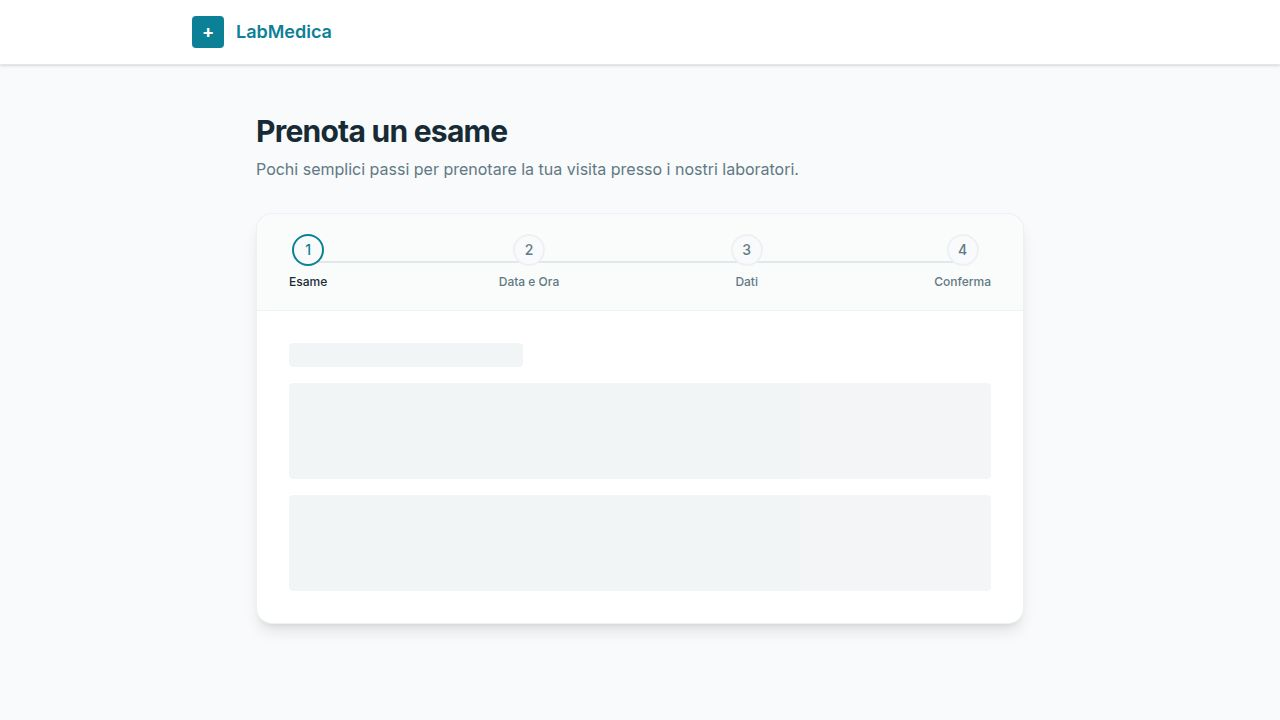
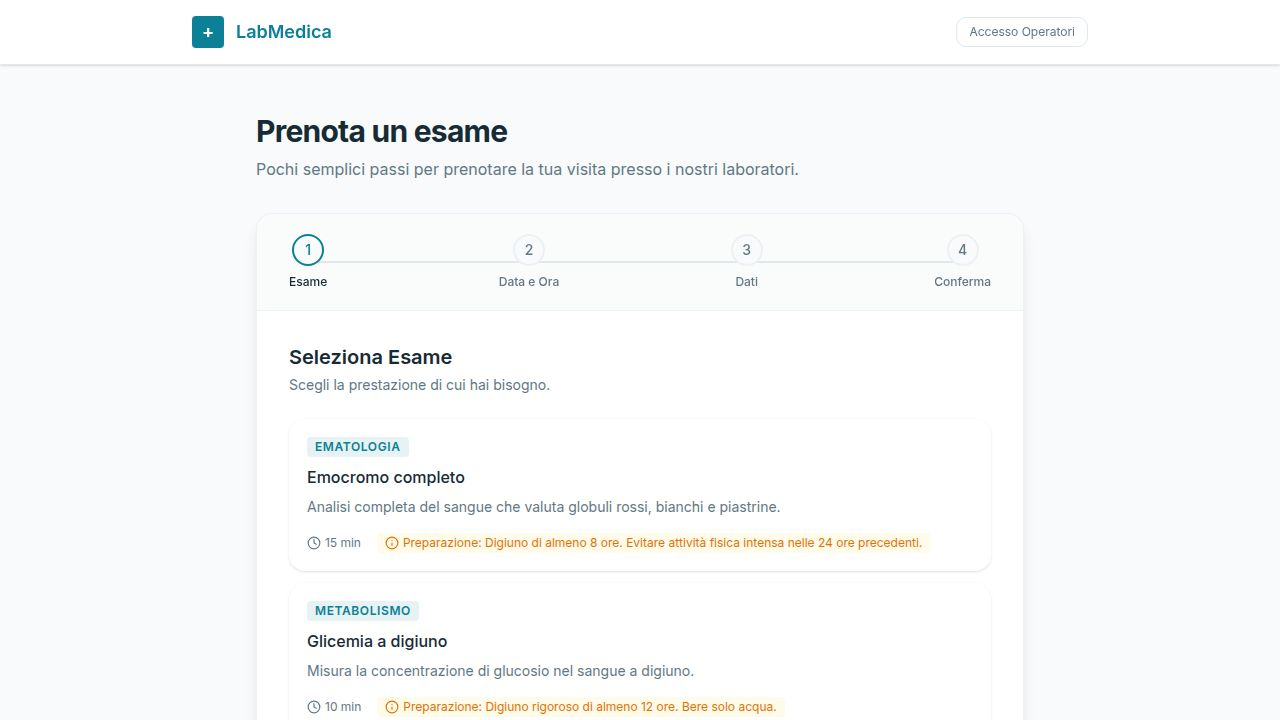
Add operator login page with role-based access control
Implements a client-side authentication flow for operator access to the admin panel, featuring a dropdown for user selection (segreteria/laboratorio) and password validation against hardcoded credentials. The admin dashboard header now dynamically displays the operator role and includes a logout button.

Replit-Commit-Author: Agent
Replit-Commit-Session-Id: 508e317d-6468-4f76-97bd-3dec9ae1c1b4
Replit-Commit-Checkpoint-Type: full_checkpoint
Replit-Commit-Event-Id: cde1e609-57c5-40cd-b354-21d2aee470ae
Replit-Commit-Screenshot-Url: https://storage.googleapis.com/screenshot-production-us-central1/43510413-4f69-4494-818c-d73aa1a7d761/508e317d-6468-4f76-97bd-3dec9ae1c1b4/dBiSgql
Replit-Helium-Checkpoint-Created: true

diff --git a/artifacts/lab-booking/src/pages/Login.tsx b/artifacts/lab-booking/src/pages/Login.tsx
@@ -1,0 +1,125 @@
+import React from "react";
+import { Button } from "@/components/ui/button";
+import { Input } from "@/components/ui/input";
+import { Label } from "@/components/ui/label";
+import {
+  Select,
+  SelectContent,
+  SelectItem,
+  SelectTrigger,
+  SelectValue,
+} from "@/components/ui/select";
+import { Card } from "@/components/ui/card";
+import { Lock, Eye, EyeOff } from "lucide-react";
+
+const CREDENTIALS: Record<string, string> = {
+  segreteria: "Corona!20",
+  laboratorio: "Corona!26",
+};
+
+interface LoginProps {
+  onSuccess: (role: string) => void;
+}
+
+export function Login({ onSuccess }: LoginProps) {
+  const [username, setUsername] = React.useState<string>("");
+  const [password, setPassword] = React.useState("");
+  const [showPassword, setShowPassword] = React.useState(false);
+  const [error, setError] = React.useState("");
+  const [loading, setLoading] = React.useState(false);
+
+  const handleSubmit = (e: React.FormEvent) => {
+    e.preventDefault();
+    setError("");
+
+    if (!username) {
+      setError("Seleziona un utente.");
+      return;
+    }
+    if (!password) {
+      setError("Inserisci la password.");
+      return;
+    }
+
+    setLoading(true);
+    setTimeout(() => {
+      if (CREDENTIALS[username] === password) {
+        sessionStorage.setItem("operator_role", username);
+        onSuccess(username);
+      } else {
+        setError("Password non corretta. Riprova.");
+        setPassword("");
+      }
+      setLoading(false);
+    }, 400);
+  };
+
+  return (
+    <div className="min-h-screen bg-background flex flex-col items-center justify-center px-4">
+      <div className="w-full max-w-sm">
+        <div className="text-center mb-8">
+          <div className="inline-flex h-12 w-12 items-center justify-center rounded-xl bg-primary mb-4">
+            <span className="text-white font-bold text-2xl leading-none">+</span>
+          </div>
+          <h1 className="text-xl font-bold text-foreground">LabMedica</h1>
+          <p className="text-sm text-muted-foreground mt-1">Accesso Operatori</p>
+        </div>
+
+        <Card className="p-6 shadow-lg border-border/60">
+          <form onSubmit={handleSubmit} className="space-y-4">
+            <div className="space-y-1.5">
+              <Label htmlFor="username">Utente</Label>
+              <Select value={username} onValueChange={(v) => { setUsername(v); setError(""); }}>
+                <SelectTrigger id="username" className="w-full">
+                  <SelectValue placeholder="Seleziona utente..." />
+                </SelectTrigger>
+                <SelectContent>
+                  <SelectItem value="segreteria">Segreteria</SelectItem>
+                  <SelectItem value="laboratorio">Laboratorio</SelectItem>
+                </SelectContent>
+              </Select>
+            </div>
+
+            <div className="space-y-1.5">
+              <Label htmlFor="password">Password</Label>
+              <div className="relative">
+                <Input
+                  id="password"
+                  type={showPassword ? "text" : "password"}
+                  value={password}
+                  onChange={(e) => { setPassword(e.target.value); setError(""); }}
+                  placeholder="••••••••"
+                  className={`pr-10 ${error ? "border-destructive focus-visible:ring-destructive" : ""}`}
+                  autoComplete="current-password"
+                />
+                <button
+                  type="button"
+                  onClick={() => setShowPassword((v) => !v)}
+                  className="absolute right-3 top-1/2 -translate-y-1/2 text-muted-foreground hover:text-foreground transition-colors"
+                  tabIndex={-1}
+                >
+                  {showPassword ? <EyeOff className="h-4 w-4" /> : <Eye className="h-4 w-4" />}
+                </button>
+              </div>
+            </div>
+
+            {error && (
+              <p className="text-sm text-destructive">{error}</p>
+            )}
+
+            <Button type="submit" className="w-full gap-2" disabled={loading}>
+              <Lock className="h-4 w-4" />
+              {loading ? "Verifica..." : "Accedi"}
+            </Button>
+          </form>
+        </Card>
+
+        <p className="text-center mt-6">
+          <a href="/" className="text-xs text-muted-foreground hover:text-primary transition-colors">
+            Torna al portale pazienti
+          </a>
+        </p>
+      </div>
+    </div>
+  );
+}

diff --git a/artifacts/lab-booking/src/pages/Admin.tsx b/artifacts/lab-booking/src/pages/Admin.tsx
@@ -6,7 +6,8 @@ import { useLocation } from "wouter";
 import { Badge } from "@/components/ui/badge";
 import { Button } from "@/components/ui/button";
 import { Skeleton } from "@/components/ui/skeleton";
-import { ArrowLeft, RefreshCw, CalendarDays, FlaskConical, User, Phone } from "lucide-react";
+import { ArrowLeft, RefreshCw, CalendarDays, FlaskConical, User, Phone, LogOut } from "lucide-react";
+import { Login } from "./Login";
 
 function StatusBadge({ status }: { status: string }) {
   if (status === "confirmed") {
@@ -20,6 +21,33 @@ function StatusBadge({ status }: { status: string }) {
 
 export default function Admin() {
   const [, navigate] = useLocation();
+  const [role, setRole] = React.useState<string | null>(
+    () => sessionStorage.getItem("operator_role")
+  );
+
+  const handleLogout = () => {
+    sessionStorage.removeItem("operator_role");
+    setRole(null);
+  };
+
+  if (!role) {
+    return <Login onSuccess={(r) => setRole(r)} />;
+  }
+
+  const roleLabel = role === "segreteria" ? "Segreteria" : "Laboratorio";
+
+  return <AdminDashboard roleLabel={roleLabel} onLogout={handleLogout} navigate={navigate} />;
+}
+
+function AdminDashboard({
+  roleLabel,
+  onLogout,
+  navigate,
+}: {
+  roleLabel: string;
+  onLogout: () => void;
+  navigate: (path: string) => void;
+}) {
   const { data: bookings, isLoading, error, refetch, isFetching } = useListBookings();
 
   const today = format(new Date(), "yyyy-MM-dd");
@@ -37,7 +65,7 @@ export default function Admin() {
             </div>
             <div>
               <span className="font-semibold text-lg text-primary leading-none">LabMedica</span>
-              <span className="text-xs text-muted-foreground block leading-none mt-0.5">Pannello Segreteria</span>
+              <span className="text-xs text-muted-foreground block leading-none mt-0.5">Pannello {roleLabel}</span>
             </div>
           </div>
           <div className="flex items-center gap-2">
@@ -51,9 +79,13 @@ export default function Admin() {
               <RefreshCw className={`h-3.5 w-3.5 ${isFetching ? "animate-spin" : ""}`} />
               Aggiorna
             </Button>
-            <Button variant="ghost" size="sm" onClick={() => navigate("/")} className="gap-2">
+            <Button variant="ghost" size="sm" onClick={() => navigate("/")} className="gap-2 hidden sm:flex">
               <ArrowLeft className="h-3.5 w-3.5" />
               Portale pazienti
+            </Button>
+            <Button variant="ghost" size="sm" onClick={onLogout} className="gap-2 text-muted-foreground hover:text-destructive">
+              <LogOut className="h-3.5 w-3.5" />
+              Esci
             </Button>
           </div>
         </div>